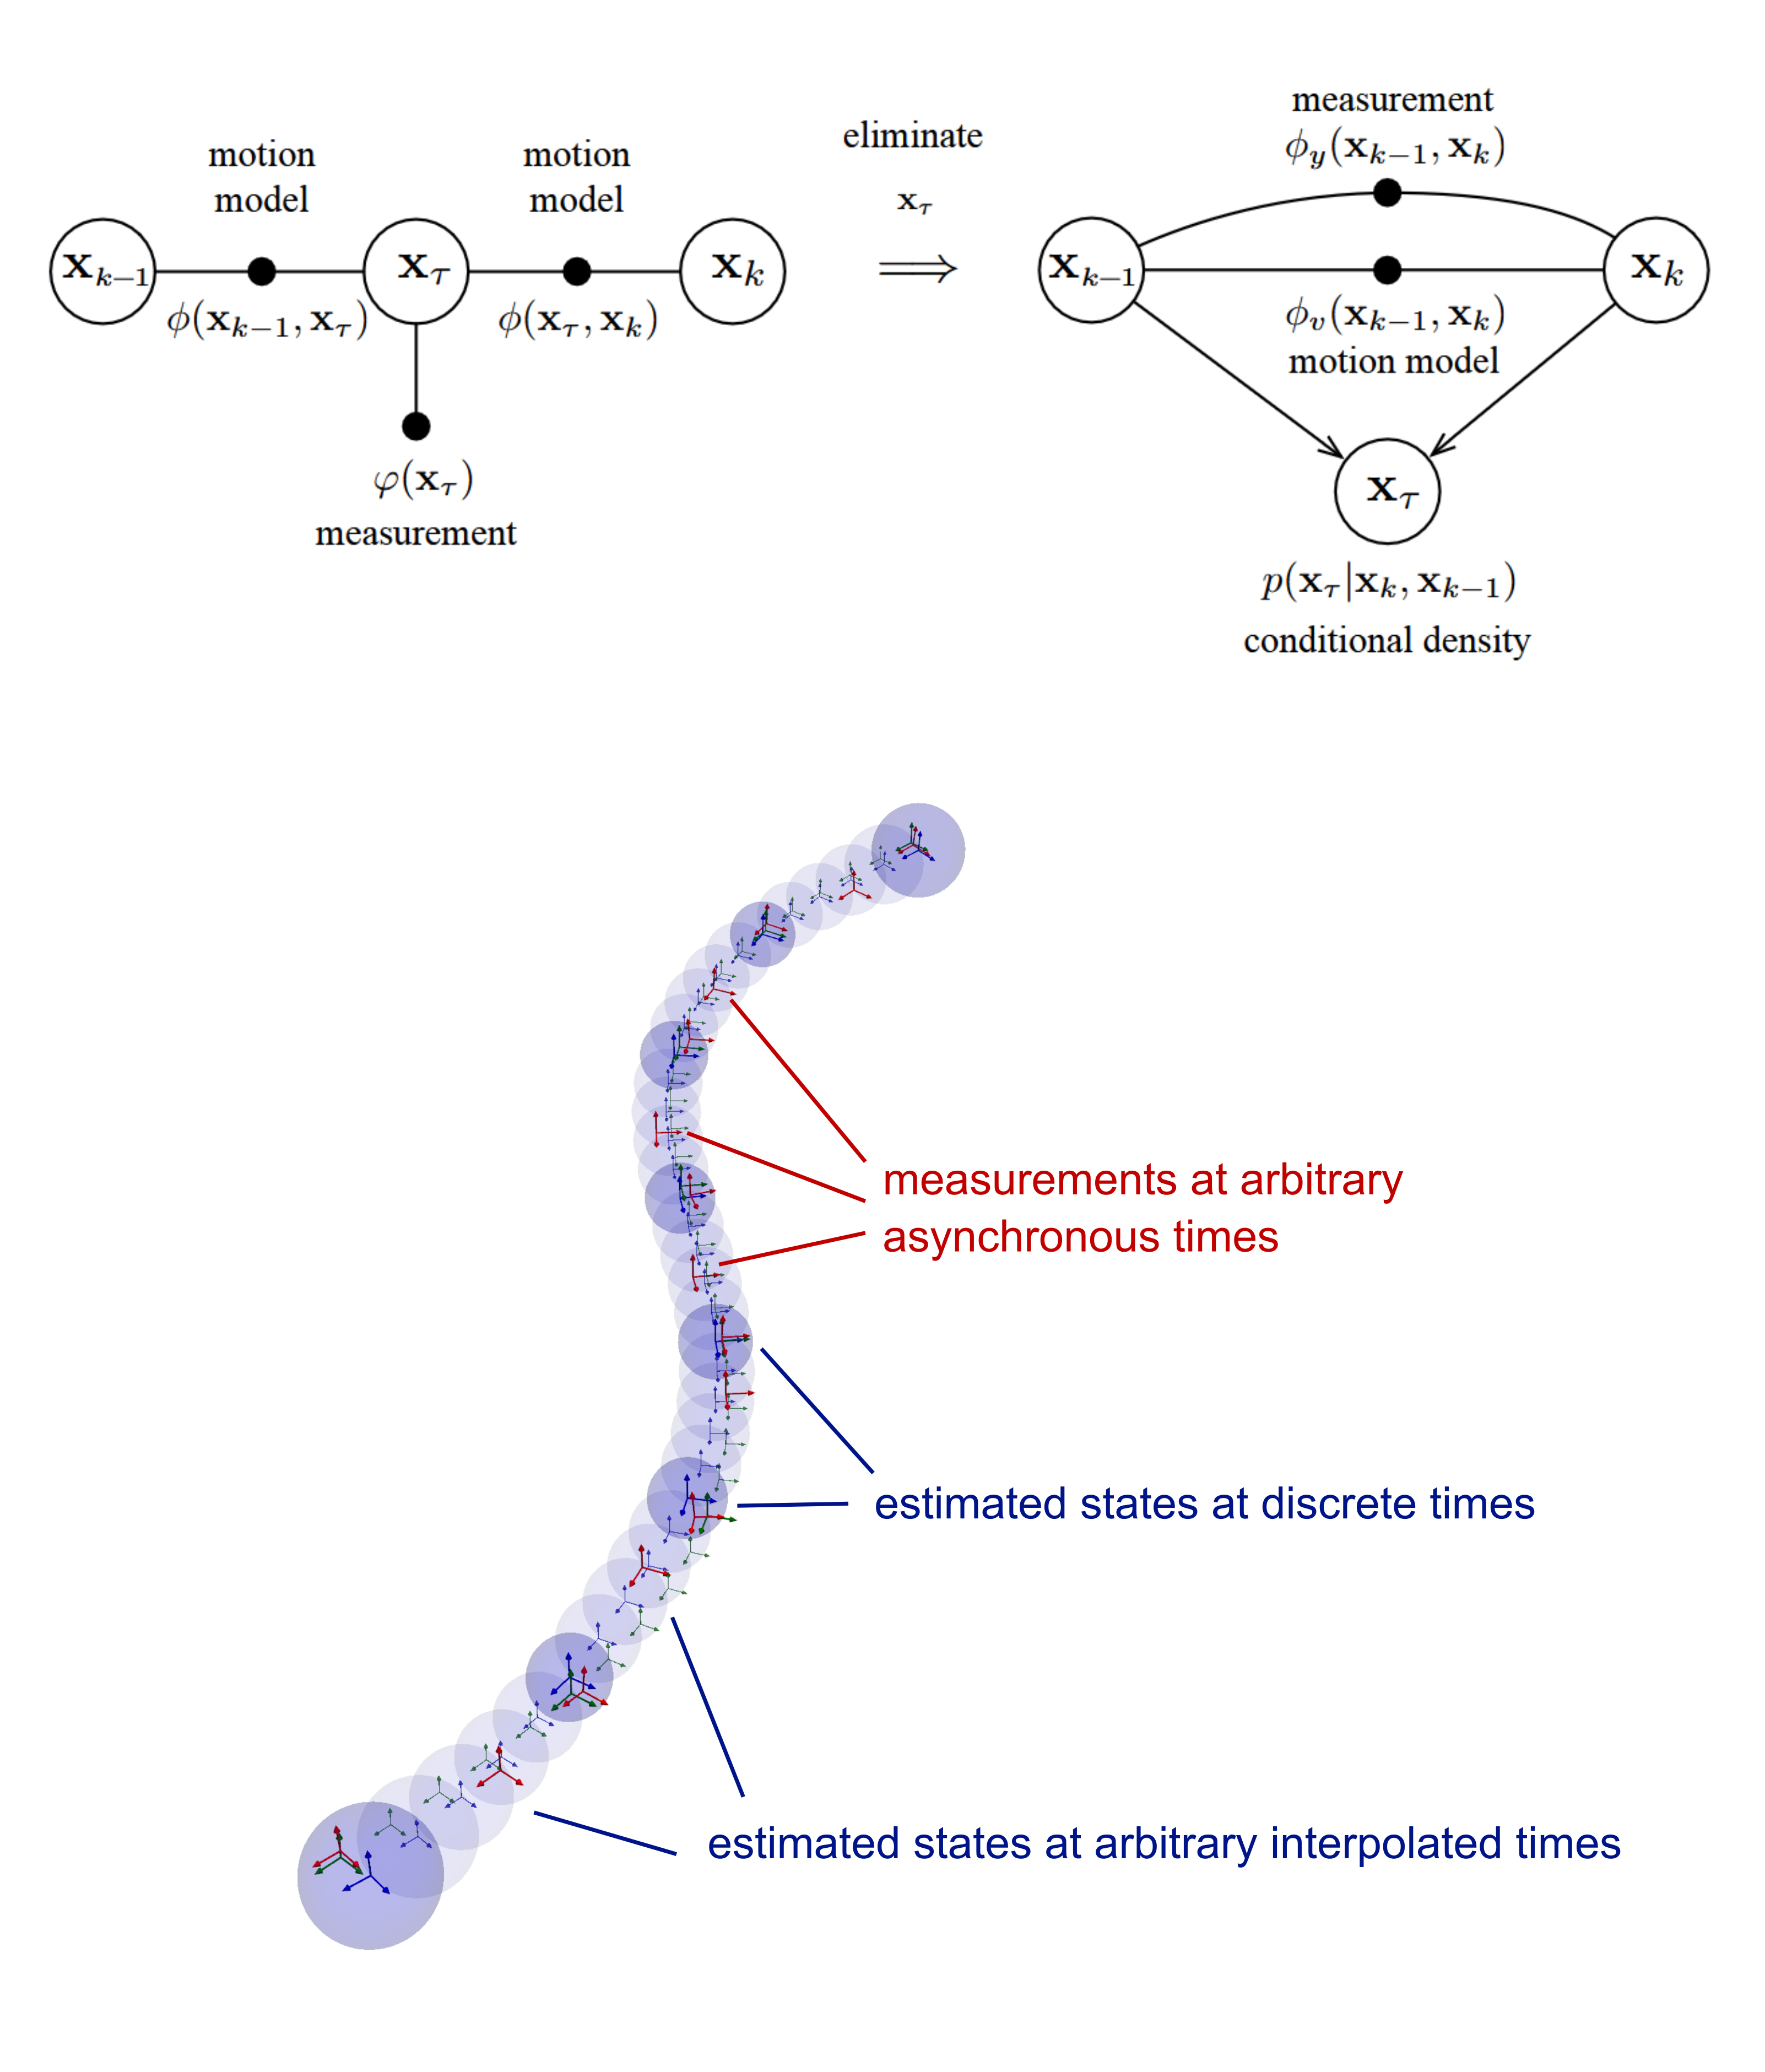
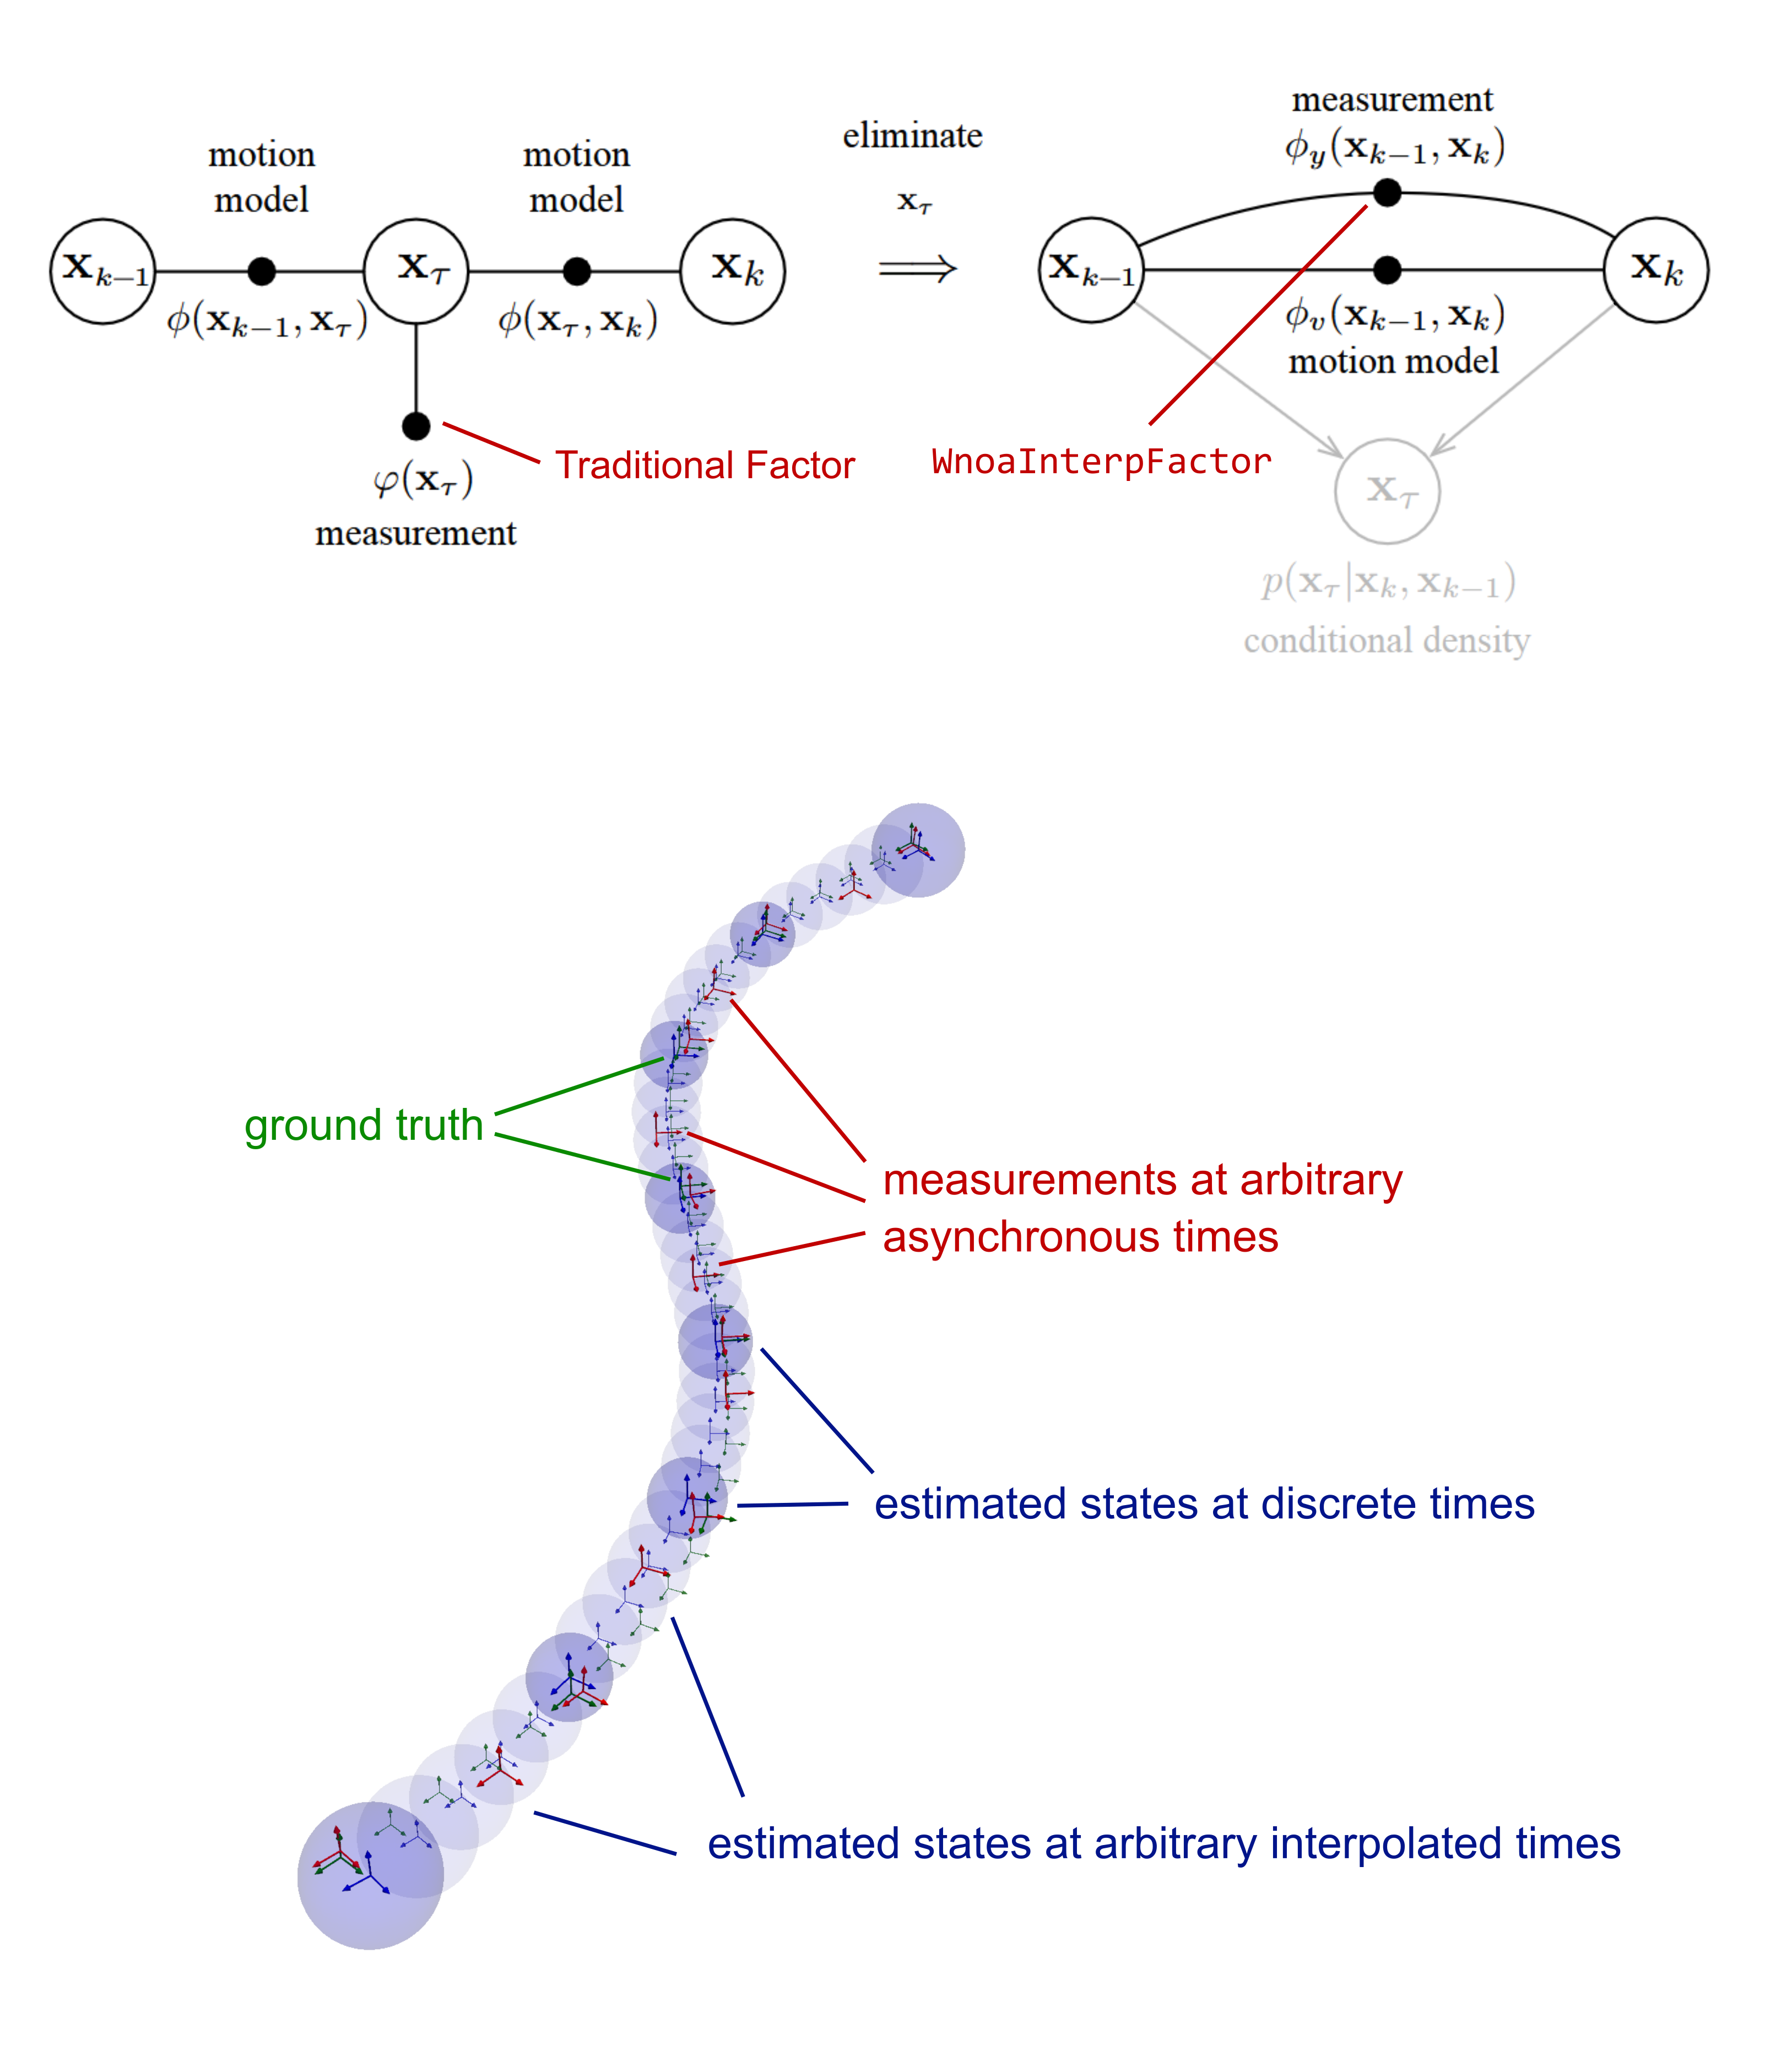
CT Blogpost Edits
- Fixed broken hyperlinks and added link to GTSAM Example Notebook
- Added annotations for ground truth frames in figures
- Update figure 4 and associated text to make the connection between factor graph elimination and wrapper factor more explicit

diff --git a/_posts/2026-05-20-gp-ct-in-gtsam.md b/_posts/2026-05-20-gp-ct-in-gtsam.md
@@ -60,7 +60,16 @@ We can now use the new GTSAM functionalities to additionally query the mean and 
 </figure>
 <br />
 
-Finally, we are not restricted to measurements, or any other factors, that align exactly with the optimization states at discrete times. Here, we can use the wrapper factor `WnoaInterpFactor`, which converts a factor related to a state at an arbitrary time into a factor depending on the two neighboring states in the graph, again motivated by the factor-graph elimination analogy. GTSAM then optimizes the trajectory while correctly accounting for the exact time association via GP interpolation. The example below shows measurements in red at arbitrary times. This is especially useful when measurements are asynchronous or arrive at high rates. We only need to include a subset of states at discrete times, for example at a lower rate such as 10 Hz, and rely on GP interpolation to relate them to measurements or other factors at arbitrary times. This effectively enables interpolation during the solve rather than only post-solve.
+Finally, we are not restricted to measurements, or any other factors, that align exactly with the optimization states at discrete times. 
+
+As illustrated in the figure below, suppose we receive a measurement at an arbitrary time $\tau$. In a traditional setup (left), we would need to insert a new state $\mathbf{x}\_\tau$ into the optimization graph. Instead, we can conceptually eliminate $\mathbf{x}\_\tau$ using the GP motion model. This elimination produces two distinct components (right): 
+
+1. A conditional density $p(\mathbf{x}\_\tau \mid \mathbf{x}\_k, \mathbf{x}\_{k-1})$ representing the eliminated state $\mathbf{x}\_\tau$ (shown in gray).
+2. A new measurement factor $\phi\_y(\mathbf{x}\_{k-1}, \mathbf{x}\_k)$ that depends solely on the two neighboring bounding states, $\mathbf{x}\_{k-1}$ and $\mathbf{x}\_k$.
+
+In GTSAM, we implement this mechanism using the wrapper factor `WnoaInterpFactor`. It converts a factor at an arbitrary time into this neighboring-state factor, allowing GTSAM to optimize the trajectory while correctly accounting for exact time associations via GP interpolation. 
+
+The bottom of the figure demonstrates this in practice. This formulation is especially useful when measurements are asynchronous or arrive at high rates (shown in red). Rather than including states in the graph for every single measurement, we only need to optimize a subset of discrete states (dark blue) at a lower rate, such as 10 Hz. The wrapper factor relies on GP interpolation to correctly relate the asynchronous measurements to the discrete states, effectively enabling exact continuous-time interpolation during the solve rather than only post-solve.
 
 <figure class="center" style="width: 100%; max-width: 820px;">
   <img src="/assets/images/gp-ct/asynchronous-traj.png"
@@ -78,7 +87,7 @@ The integration of GP-based continuous-time estimation into GTSAM provides a fle
 
 For a deeper dive into the theory and broader context of these methods, we recommend reading our [recent paper](https://arxiv.org/abs/2605.09073), "Smoothing Out the Edges: Continuous-Time Estimation with Gaussian Process Motion Priors on Factor Graphs".
 
-You can explore the example from this blogpost in our [Colab Notebook](https://colab.research.google.com/drive/17vXoE6zV7W6yL-5P4u7v7_7-1jK-X5yR). Please also visit our [GitHub Repository](https://github.com/utiasASRL/2025-fnt-ctfg) for further real-world robotics examples. These specifically include:
+You can find more details on the example used in this blogpost in our [GTSAM Example Notebook](https://borglab.github.io/gtsam/gaussianprocesswnoainterpolationse3/) and interactive [Google Colab Notebook](https://colab.research.google.com/github/borglab/gtsam/blob/develop/python/gtsam/examples/GaussianProcessWnoaInterpolationSE3.ipynb). Please also visit our [GitHub Repository](https://github.com/utiasASRL/2025-fnt-ctfg) for further real-world robotics examples. These specifically include:
 
 1.  **1D (Giant Glass of Milk)**: A mobile robot driving back and forth in a straight line, demonstrating basic smoothing.
 2.  **2D (Lost in the Woods)**: SLAM and localization for a wheeled robot using asynchronous landmark observations, showing problem-size reduction via aggressive interpolation.